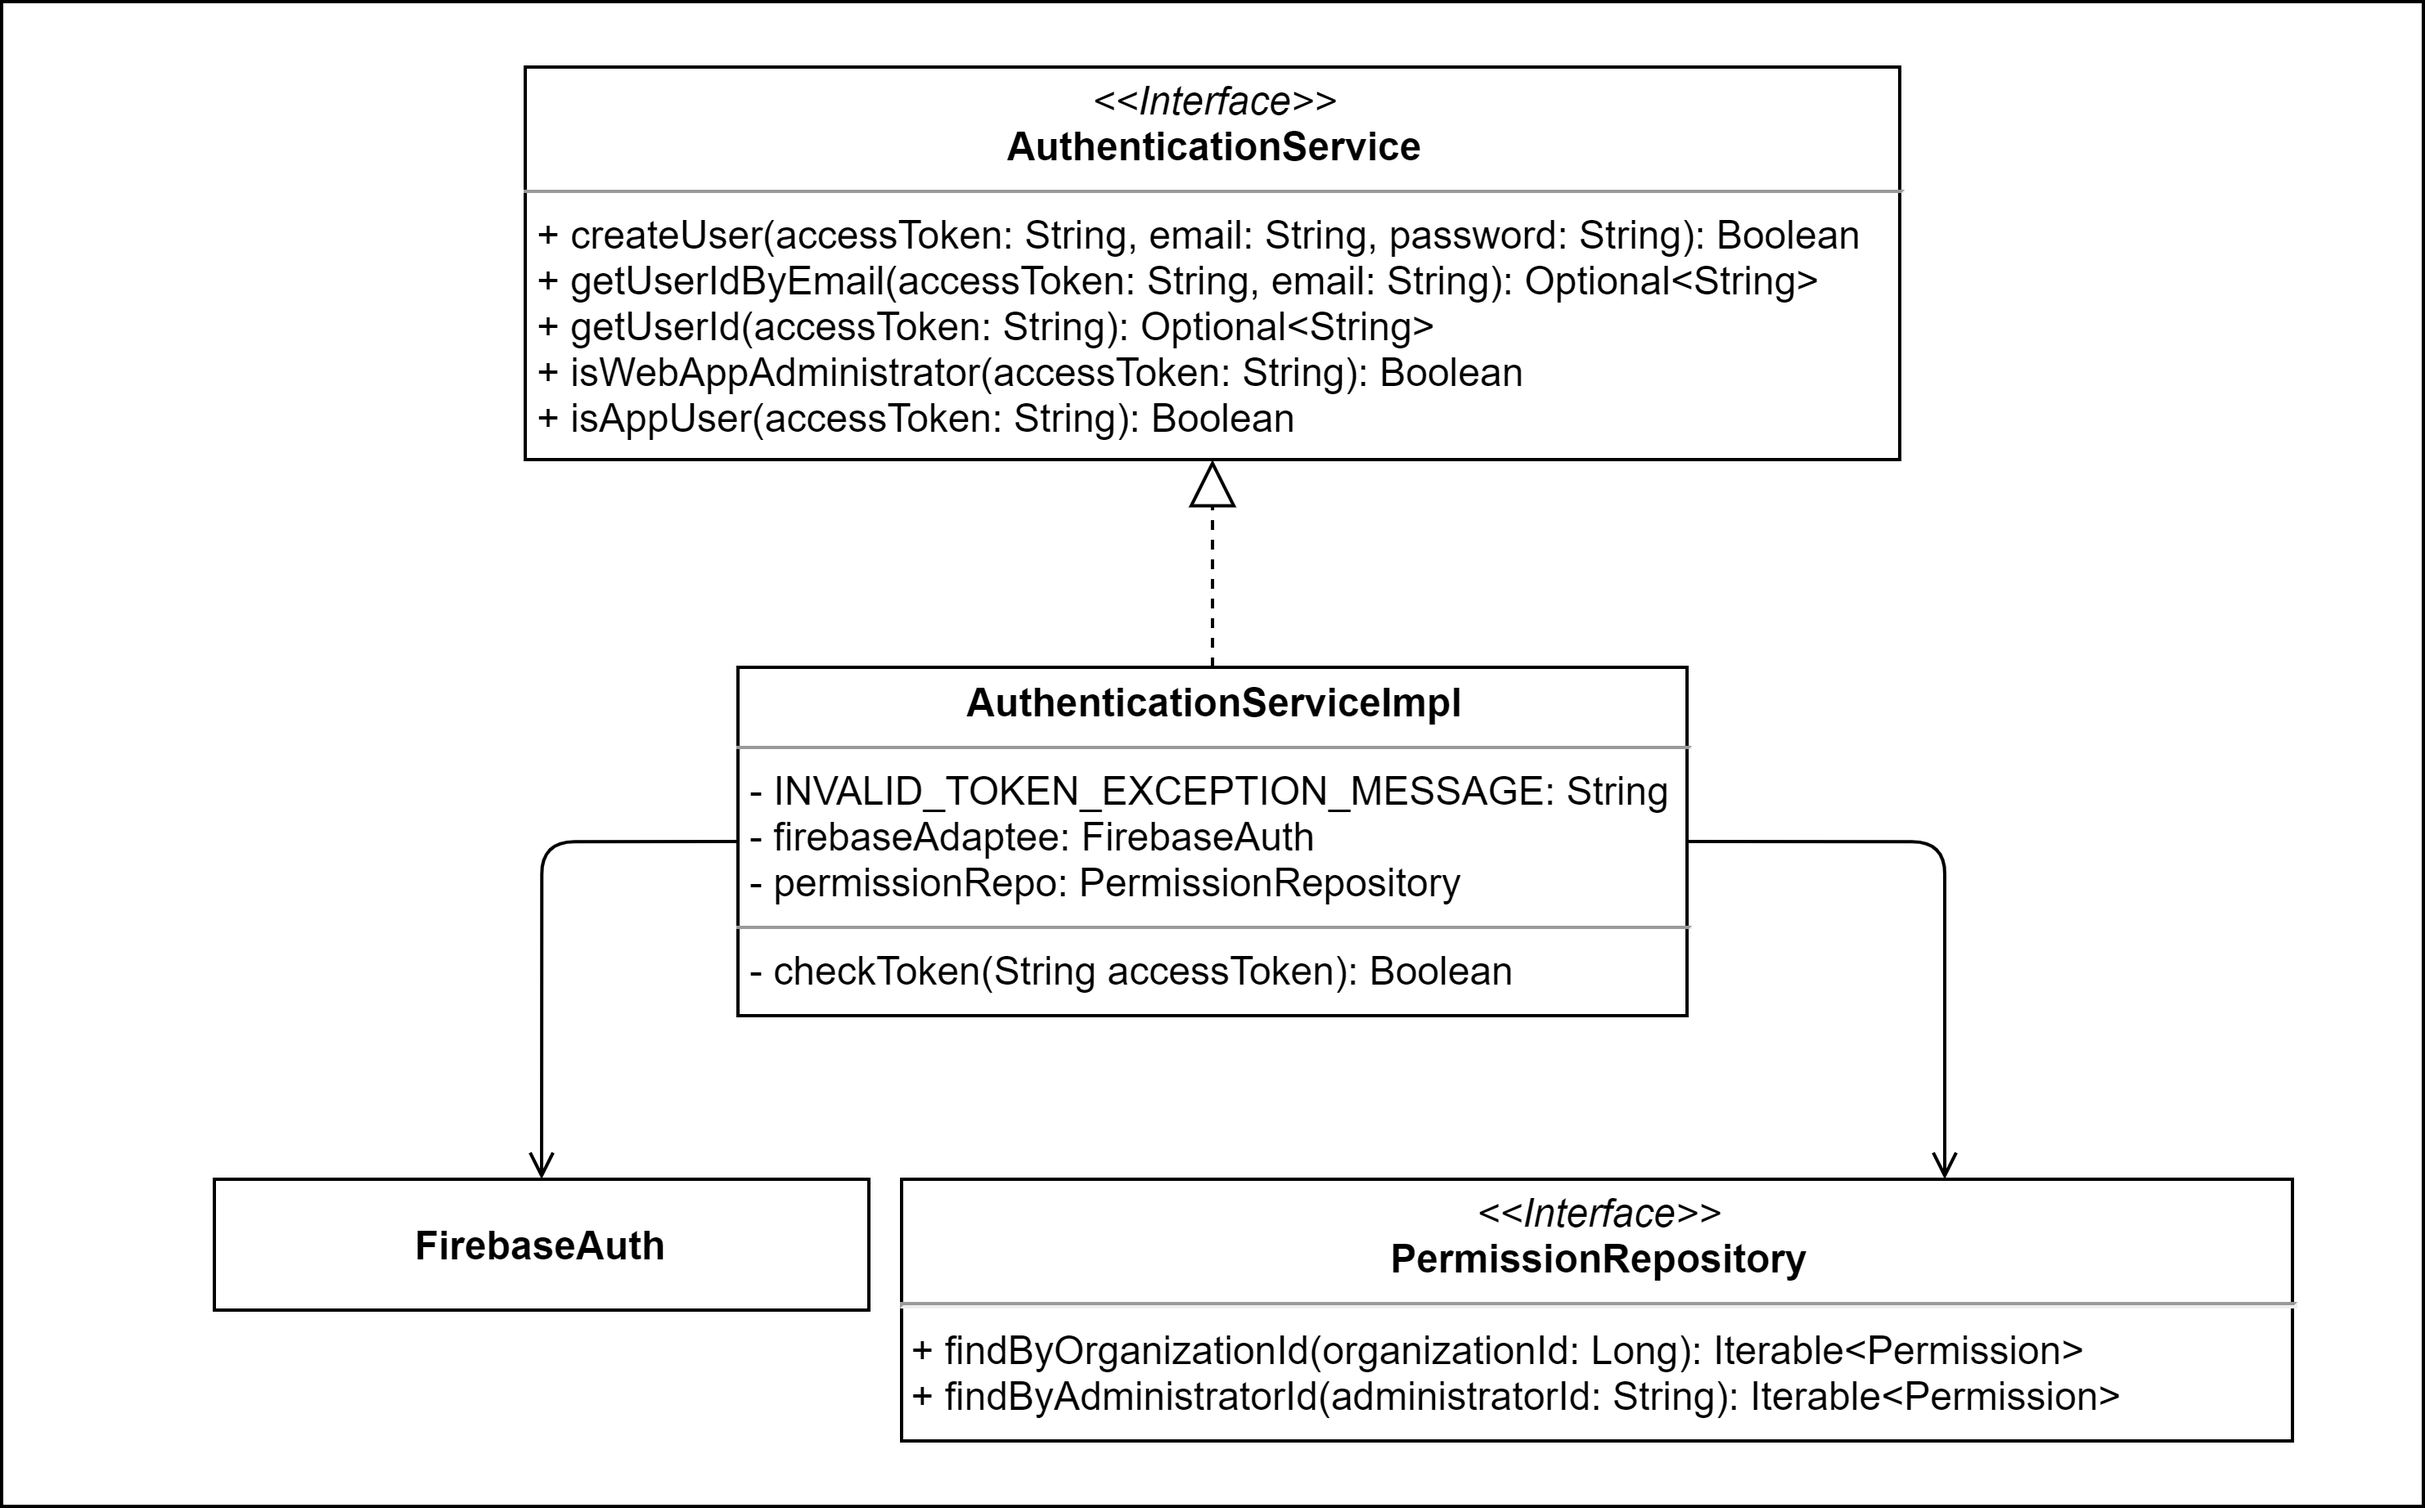
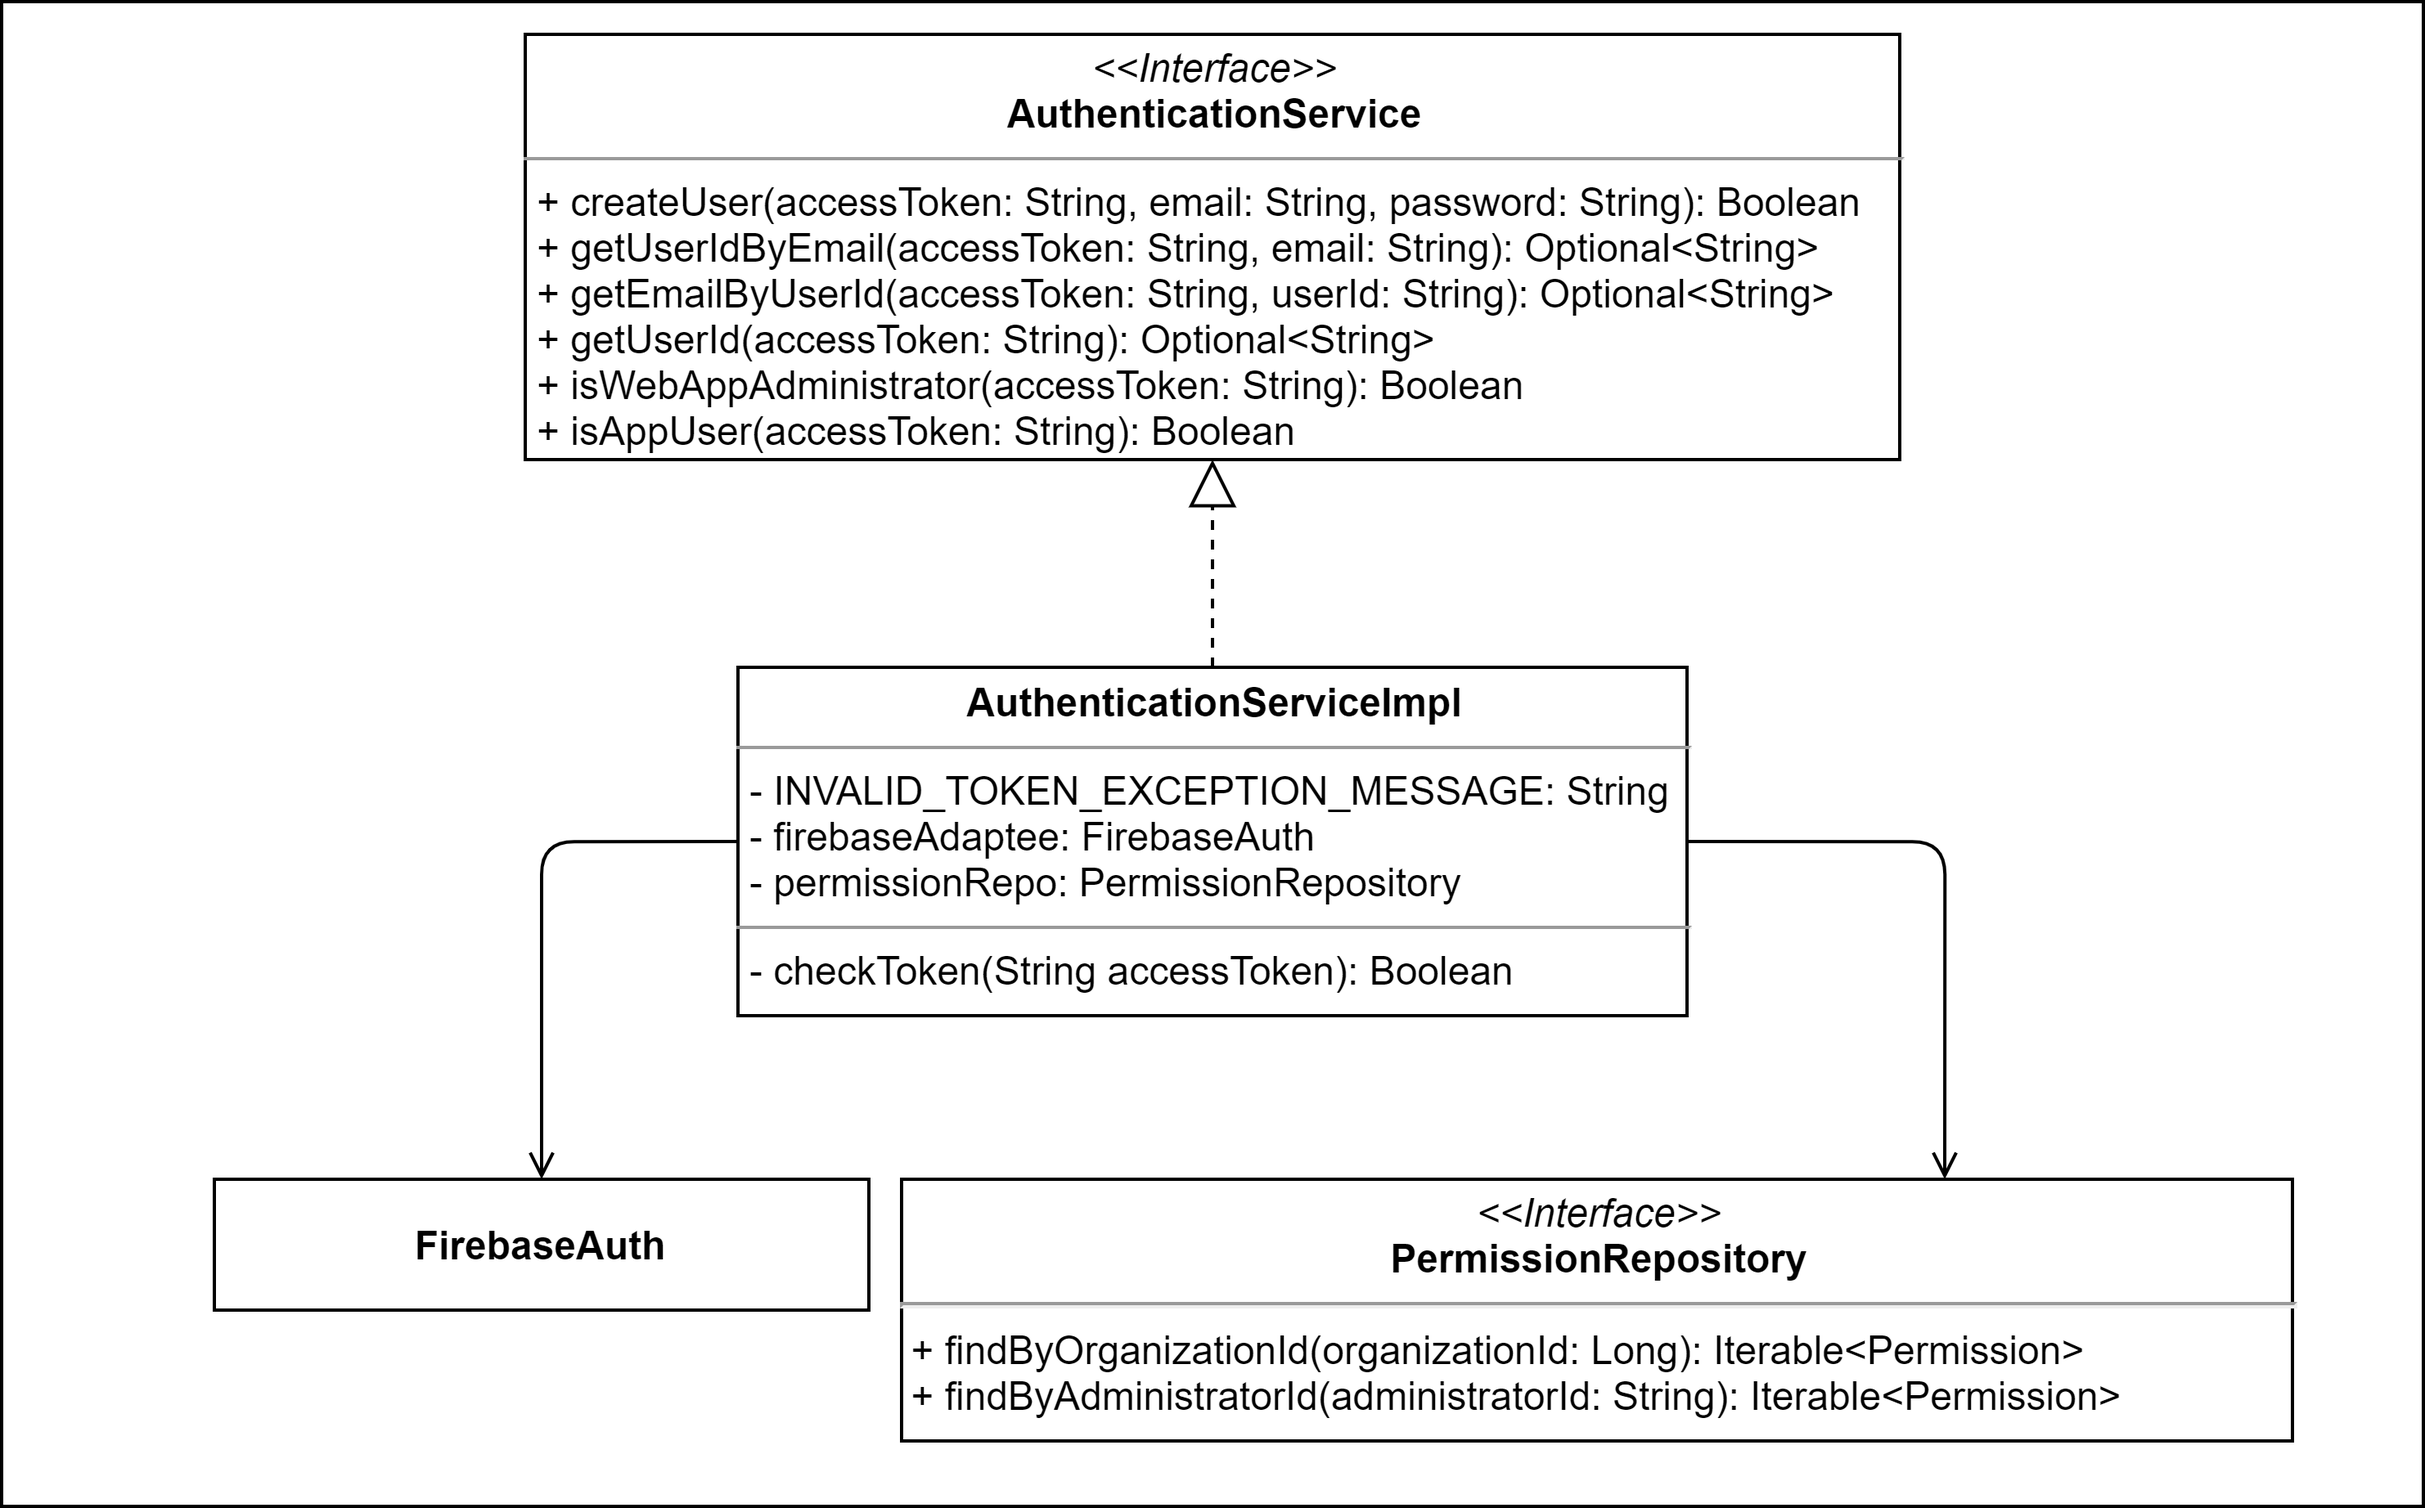
Verificato §4.6.1.4

Changed region(s): [[0.2173, 0.0309, 0.776, 0.3091]]

diff --git a/DocumentazioneEsterna/ManualeSviluppatore/docs/backend/classi.md b/DocumentazioneEsterna/ManualeSviluppatore/docs/backend/classi.md
@@ -26,10 +26,10 @@ L'`AdministratorService` si occupa di soddisfare le richieste provenienti dai co
 Sono disponibili i seguenti metodi:
 
 - `bindAdministratorToOrganization`: assegna un amministratore già esistente ad una organizzazione esistente. Il parametro di tipo **Permission** contiene tutte le informazioni necessarie al metodo; Viene utilizzato il metodo `save` dell'interfaccia **PermissionRepository** (che lo eredita da **CrudRepository** di **org.springframework.data.repository**) per salvare nel database l'oggetto di tipo **Permission** che rappresenta i privilegi di gestione (intesi in senso generico, quindi possono essere di visualizzazione - viewer -, gestione - manager -, possesso - owner -) concessi all'amministratore all'interno di una organizzazione;
-- `createNewAdministratorInOrganization`: crea un nuovo account per un amministratore nel provider di autenticazione e ne assegna i permessi ad un'organizzazione tramite l'oggetto **Permission**. Viene utilizzato il metodo `save` dell'interfaccia **PermissionRepository** per salvare nel database il nuovo amministratore.  
+- `createNewAdministratorInOrganization`: crea un nuovo account per un amministratore nel provider di autenticazione e ne assegna i permessi ad un'organizzazione tramite l'oggetto **Permission**. Viene utilizzato il metodo `save` dell'interfaccia **PermissionRepository** per salvare nel database il nuovo amministratore;  
 - `getAdministratorListOfOrganization`: ritorna una lista di **Permission** che rappresenta l'insieme di amministratori che operano in una data organizzazione identificata dal suo **organizationId**. Viene utilizzato il metodo `findByOrganizationId` dell'interfaccia **PermissionRepository** per ottenere tutti gli amministratori in una organizzazione;
-- `getPermissionList`: ritorna una lista di **Permission** che rappresenta tutte le organizzazioni in cui un dato amministratore (identificato tramite **administratorId**) ha permessi di gestione (intesi in senso generico). Viene utilizzato il metodo `findByAdministratorId` dell'interfaccia **PermissionRepository**.  
-- `updateAdministratorPermission`: ritorna un oggetto di tipo **Permission** all'interno di un Optional (wrapper per oggetti introdotto in Java 8 e disponibile nel package **java.util**) che contiene le modifiche appena apportate ai permessi di uno specifico amministratore all'interno di un'organizzazione richieste passando a questo metodo un parametro di tipo **Permission**. Viene utilizzato il metodo `save` dell'interfaccia **PermissionRepository**.  
+- `getPermissionList`: ritorna una lista di **Permission** che rappresenta tutte le organizzazioni in cui un dato amministratore (identificato tramite **administratorId**) ha permessi di gestione (intesi in senso generico). Viene utilizzato il metodo `findByAdministratorId` dell'interfaccia **PermissionRepository**; 
+- `updateAdministratorPermission`: ritorna un oggetto di tipo **Permission** all'interno di un Optional (wrapper per oggetti introdotto in Java 8 e disponibile nel package **java.util**) che contiene le modifiche appena apportate ai permessi di uno specifico amministratore all'interno di un'organizzazione richieste passando a questo metodo un parametro di tipo **Permission**. Viene utilizzato il metodo `save` dell'interfaccia **PermissionRepository**;
 - `unbindAdministratorFromOrganization`: cancella i permessi di un amministratore da un'organizzazione passando al metodo un oggetto di tipo **Permission**. Viene utilizzato il metodo `deleteById` dell'interfaccia **PermissionRepository** (che lo eredita).  
 
 ### 4.6.1.3 AuthenticationServerService
@@ -44,14 +44,16 @@ L'`AuthenticationServerService` si occupa di soddisfare le richieste provenienti
 
 L'`AuthenticationService` si occupa di soddisfare le richieste provenienti dai controller per ottenere informazioni sullo stato di autenticazione e i permessi (in questo caso intesi come "essere un utente dell'app" oppure "essere un amministratore della web-app") di un utente.    
 
--`checkToken`: metodo privato che data una stringa utilizza il metodo `verifyIdToken` della classe **FirebaseAuth** per determinare se l'utente è autenticato tramite Firebase.  
--`isWebAppAdministrator`: data una stringa **accessToken** determina utilizzando i metodi `getFirebaseUser` e `findByAdministratorId` se l'utente identificato dall'**accessToken** sia un amministratore; in caso il token non sia valido lancia una **AuthenticationException**.  
--`isAppUser`: data una stringa **accessToken** determina utilizzando i metodi `getFirebaseUser` e `findByAdministratorId` se l'utente identificato dall'**accessToken** non sia un amministratore; in caso il token non sia valido lancia una **AuthenticationException**.   
--`createUser`: date 3 stringhe (accessToken, email, password) utilizza il metodo `createUser` della classe **FirebaseAuth** per creare un utente su Firebase, se l'operazione non ha successo ritorna **false** mentre se avviene con successo ritorna **true**; in caso il token non sia valido lancia una **AuthenticationException**.  
--`getUserIdByEmail`: date 2 stringhe (accessToken, email) ritorna un **Optional<String>** che rappresenta l'identificativo dell'utente, utilizza il metodo `getUserByEmail` della classe **FirebaseAuth**, in caso l'**accessToken** non fosse valido lancia una **AuthenticationException** e se invece non viene trovato l'identificativo dell'utente ritorna **Optional.empty()**.
--`getUserId`: ritorna l'identificativo dell'utente dato il suo **accessToken**, utilizza il metodo `getFirebaseUser`; in caso il token non sia valido lancia una **AuthenticationException**.  
--`getFirebaseUser`: ritorna un **Optional<FirebaseToken>** dato un **accessToken** utilizzando il metodo `verifyIdToken` della classe **FirebaseAuth**, se quest'ultimo metodo lancia una **FirebaseAuthException** `getFirebaseUser` ritorna **Optional.empty()**.  
--`getEmailByUserId`: ritorna **Optional<String>** contenente l'email dell'utente identificato da **userId**, utilizza il metodo `getUser` della classe **FirebaseAuth**, ritorna **Optional.empty()** nel caso in cui userId fornito sia vuoto o nullo, oppure se la chiamata di `getUser` lanci FirebaseAuthException o IllegalArgumentException; invece `getEmailByUserId` nel caso l'**accessToken** passato non sia valido lancia **AuthenticationException**.  
+Nella sua implementazione attraverso il provider di autenticazione [Firebase](requisiti.md#firebase-authentication), sono disponibili i seguenti metodi:
+
+- `checkToken`: metodo privato che data una stringa utilizza il metodo `verifyIdToken` della classe **FirebaseAuth** per determinare se l'utente è autenticato tramite Firebase.  
+- `isWebAppAdministrator`: data una stringa **accessToken** determina, utilizzando il metodo `getFirebaseUser` e `findByAdministratorId` di **PermissionRepository**, se l'utente identificato dall'**accessToken** sia un amministratore; in caso il token non sia valido lancia una **AuthenticationException**.  
+- `isAppUser`: data una stringa **accessToken** determina, utilizzando il metodo `getFirebaseUser` e `findByAdministratorId`, se l'utente identificato dall'**accessToken** non sia un amministratore; in caso il token non sia valido lancia una **AuthenticationException**.   
+- `createUser`: date tre stringhe (accessToken, email, password) utilizza il metodo `createUser` della classe **FirebaseAuth** per creare un utente su Firebase. Se l'operazione non ha successo ritorna **false**, mentre se avviene con successo ritorna **true**; in caso il token non sia valido lancia una **AuthenticationException**;  
+- `getUserIdByEmail`: date due stringhe (accessToken, email) ritorna un **Optional&lt;String&gt;** che rappresenta l'identificativo dell'utente. Utilizza il metodo `getUserByEmail` della classe **FirebaseAuth**; in caso l'**accessToken** non fosse valido lancia una **AuthenticationException**, se invece non viene trovato l'identificativo dell'utente ritorna **Optional.empty()**;
+- `getUserId`: ritorna l'identificativo dell'utente dato il suo **accessToken**, utilizzando il metodo `getFirebaseUser`; in caso il token non sia valido lancia una **AuthenticationException**;
+- `getFirebaseUser`: ritorna un **Optional&lt;FirebaseToken&gt;** dato un **accessToken** utilizzando il metodo `verifyIdToken` della classe **FirebaseAuth**, se quest'ultimo metodo lancia una **FirebaseAuthException** `getFirebaseUser` ritorna **Optional.empty()**; 
+- `getEmailByUserId`: ritorna **Optional&lt;String&gt;** contenente l'email dell'utente identificato da **userId**, utilizza il metodo `getUser` della classe **FirebaseAuth**, ritorna **Optional.empty()** nel caso in cui userId fornito sia vuoto o nullo, oppure se la chiamata di `getUser` lancia una **FirebaseAuthException** o **IllegalArgumentException**; nel caso l'**accessToken** passato non sia valido lancia **AuthenticationException**.  
 
 ### 4.6.1.5 FavoriteService
 ![!FavoriteService](../Immagini/Backend/Classi/FavoriteService.png)
